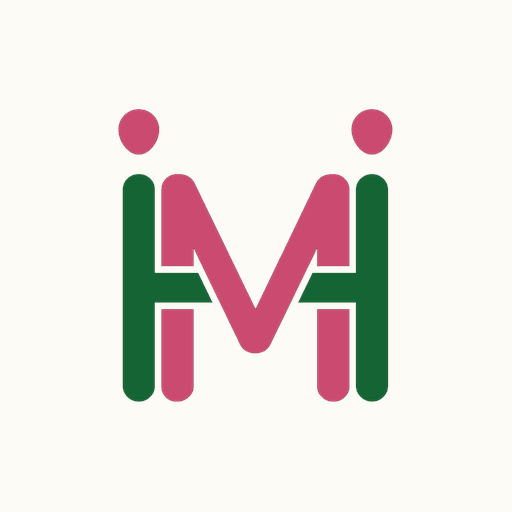
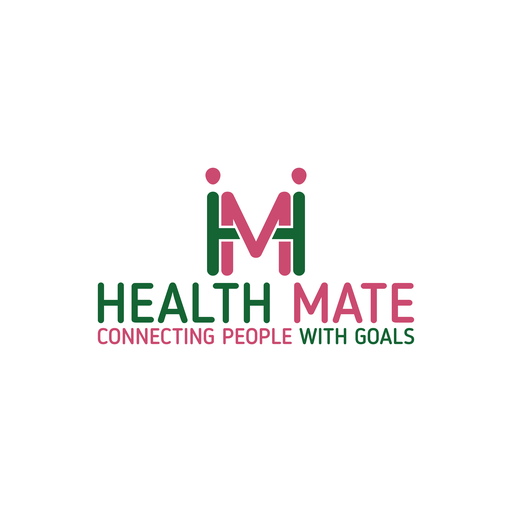
Add files via upload

Changed region(s): [[0.1875, 0.3125, 0.8125, 0.7812], [0.6875, 0.1875, 0.7812, 0.3125], [0.2188, 0.1875, 0.3125, 0.3125]]

diff --git a/sw.js b/sw.js
@@ -1,20 +1,19 @@
 /* ============================================================
    Service Worker - המעקב שלי
-   גרסה: 1.2.0
+   גרסה: 1.3.0
    תפקיד: caching בסיסי + הצגת התראות יומיות
    
-   שינויים בגרסה 1.2.0:
-   - שדרוג splash screen: inline CSS + preload + early init
-   - background_color ב-manifest שונה ללבן צרוף (#ffffff)
-   - bumped cache name לאלץ עדכון אצל המשתמשים
+   שינויים בגרסה 1.3.0:
+   - הסרת splash.mp4 מה-cache (הפיצ'ר הוסר לטובת פתיחה מהירה)
+   - אייקונים חדשים (לוגו Health Mate החדש)
+   - bumped cache name לאלץ עדכון מלא אצל המשתמשים
    ============================================================ */
 
-const CACHE_NAME = 'nutrition-tracker-v1-2';
+const CACHE_NAME = 'nutrition-tracker-v1-3';
 const CORE_FILES = [
     './',
     './index.html',
     './manifest.json',
-    './splash.mp4',
     './icon-192.png',
     './icon-512.png',
     './icon-maskable-512.png',
@@ -23,7 +22,7 @@ const CORE_FILES = [
 
 // ===== Install =====
 self.addEventListener('install', (event) => {
-    console.log('[SW] Installing v1.2.0...');
+    console.log('[SW] Installing v1.3.0...');
     event.waitUntil(
         caches.open(CACHE_NAME)
             .then(cache => cache.addAll(CORE_FILES))
@@ -34,7 +33,7 @@ self.addEventListener('install', (event) => {
 
 // ===== Activate =====
 self.addEventListener('activate', (event) => {
-    console.log('[SW] Activating v1.2.0... clearing old caches');
+    console.log('[SW] Activating v1.3.0... clearing old caches');
     event.waitUntil(
         caches.keys().then(keys => 
             Promise.all(
@@ -48,8 +47,6 @@ self.addEventListener('activate', (event) => {
 });
 
 // ===== Fetch - network first, fallback to cache =====
-// Network-first means users always get latest files when online,
-// and fallback to cache when offline (essential for PWA reliability).
 self.addEventListener('fetch', (event) => {
     if (event.request.method !== 'GET') return;
     if (!event.request.url.startsWith(self.location.origin)) return;
@@ -57,7 +54,6 @@ self.addEventListener('fetch', (event) => {
     event.respondWith(
         fetch(event.request)
             .then(response => {
-                // Cache successful responses
                 if (response && response.status === 200) {
                     const responseClone = response.clone();
                     caches.open(CACHE_NAME).then(cache => {
@@ -76,11 +72,9 @@ self.addEventListener('notificationclick', (event) => {
     event.waitUntil(
         clients.matchAll({ type: 'window', includeUncontrolled: true })
             .then(clientList => {
-                // If app already open, focus it
                 for (const client of clientList) {
                     if ('focus' in client) return client.focus();
                 }
-                // Otherwise open it
                 if (clients.openWindow) return clients.openWindow('./');
             })
     );